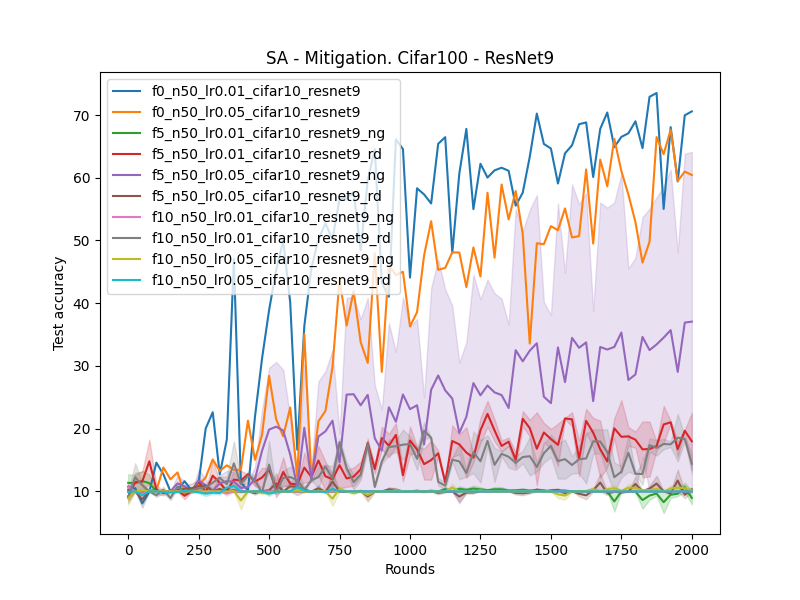
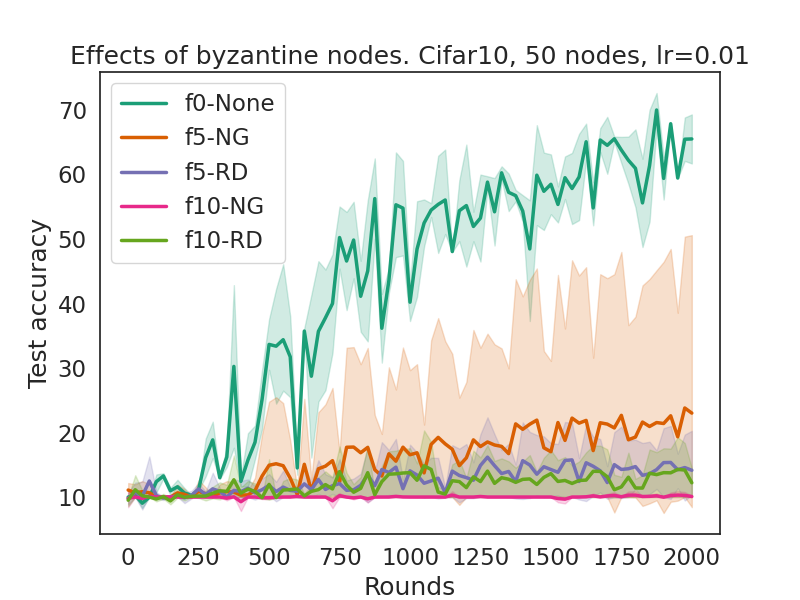
Update plots exp13

diff --git a/exp13_c10_byz_effect.py b/exp13_c10_byz_effect.py
@@ -194,10 +194,31 @@ if __name__ == '__main__':
         name = out[1]['name']
         local_df = pd.DataFrame(
             out[0][0], columns=['round', 'accuracy', 'loss'])
-        local_df['name'] = f"{name.split('-')[-1]}"
-        dfs.append(local_df)
+        parts = name.split('-')[-1].split('_')
+        # print(parts[2][2:])
+        lr = parts[2][2:]
+        f = int(parts[0][1:])
+        byz_type = 'None'
+        if f:
+            byz_type = parts[-1].upper()
+        # print(name, parts, " :: ", byz_type)
+        local_df['f'] = f
+        local_df['lr'] = float(lr)
+        local_df['byz_type'] = byz_type
+        local_df['name'] = '-'.join([f'f{f}', byz_type])
+        if f:
+            dfs.append(local_df)
+        else:
+            for f in [1,2,5,10]:
+                local_df_update = local_df.copy()
+                local_df_update['f'] = f
+                dfs.append(local_df_update)
+        # local_df['name'] = f"{name.split('-')[-1]}"
+        # dfs.append(local_df)
     server_df = pd.concat(dfs, ignore_index=True)
+    server_df = server_df[server_df['f'].isin([5,10])]
 
+    sns.set_theme(style="white", palette="Dark2", font_scale=1.5, rc={"lines.linewidth": 2.5}) # type: ignore
     dfs_server_age = []
     for out in outputs2:
         name = out[1]['name']
@@ -207,15 +228,56 @@ if __name__ == '__main__':
         dfs_server_age.append(local_df)
     model_age_df = pd.concat(dfs_server_age, ignore_index=True)
 
-    graph_file = graphs_path / f'{exp_name}.png'
+    # graph_file = graphs_path / f'{exp_name}_lr001.png'
+    # print(f'Generating plot: {graph_file}')
+    # # Visualize data
+    # fig = plt.figure(figsize=(8, 6))
+    # g = sns.lineplot(data=server_df[server_df['lr']==0.01], x='round', y='accuracy', hue='name')
+    # plt.title('Effects of byzantine nodes. Cifar10, 50 nodes, lr=0.01')
+    # plt.xlabel('Rounds')
+    # plt.ylabel('Test accuracy')
+    # g.legend_.set_title(None)
+    # plt.savefig(graph_file)
+    # plt.close(fig)
+
+    # graph_file = graphs_path / f'{exp_name}_lr005.png'
+    # print(f'Generating plot: {graph_file}')
+    # # Visualize data
+    # fig = plt.figure(figsize=(8, 6))
+    # g = sns.lineplot(data=server_df[server_df['lr']==0.05], x='round', y='accuracy', hue='name')
+    # plt.title('Effects of byzantine nodes. Cifar10, 50 nodes, lr=0.05')
+    # plt.xlabel('Rounds')
+    # plt.ylabel('Test accuracy')
+    # g.legend_.set_title(None)
+    # plt.savefig(graph_file)
+    # plt.close(fig)
+
+
+    graph_file = graphs_path / f'{exp_name}_splitted_lr001.png'
     print(f'Generating plot: {graph_file}')
     # Visualize data
     fig = plt.figure(figsize=(8, 6))
-    g = sns.lineplot(data=server_df, x='round', y='accuracy', hue='name')
-    plt.title('SA - Mitigation. Cifar100 - ResNet9')
+    g = sns.relplot(data=server_df[server_df['lr']==0.01], x='round', y='accuracy', hue='byz_type', col='f', kind='line', errorbar=('ci', 25))
+    g.set_axis_labels("Rounds", "Accuracy").set_titles("F = {col_name}").tight_layout(w_pad=0)
+    g.legend.set_title('Attack')
+    g.fig.subplots_adjust(top=0.8) # adjust the Figure in g
+    g.fig.suptitle('Effects of byzantine nodes. Cifar10, 50 nodes, lr=0.01')
     plt.xlabel('Rounds')
     plt.ylabel('Test accuracy')
-    g.legend_.set_title(None)
+    plt.savefig(graph_file)
+    plt.close(fig)
+
+    graph_file = graphs_path / f'{exp_name}_splitted_lr005.png'
+    print(f'Generating plot: {graph_file}')
+    # Visualize data
+    fig = plt.figure(figsize=(8, 6))
+    g = sns.relplot(data=server_df[server_df['lr']==0.05], x='round', y='accuracy', hue='byz_type', col='f', kind='line', errorbar=('ci', 25))
+    g.set_axis_labels("Rounds", "Accuracy").set_titles("F = {col_name}").tight_layout(w_pad=0)
+    g.legend.set_title('Attack')
+    g.fig.subplots_adjust(top=0.8) # adjust the Figure in g
+    g.fig.suptitle('Effects of byzantine nodes. Cifar10, 50 nodes, lr=0.05')
+    plt.xlabel('Rounds')
+    plt.ylabel('Test accuracy')
     plt.savefig(graph_file)
     plt.close(fig)
 
